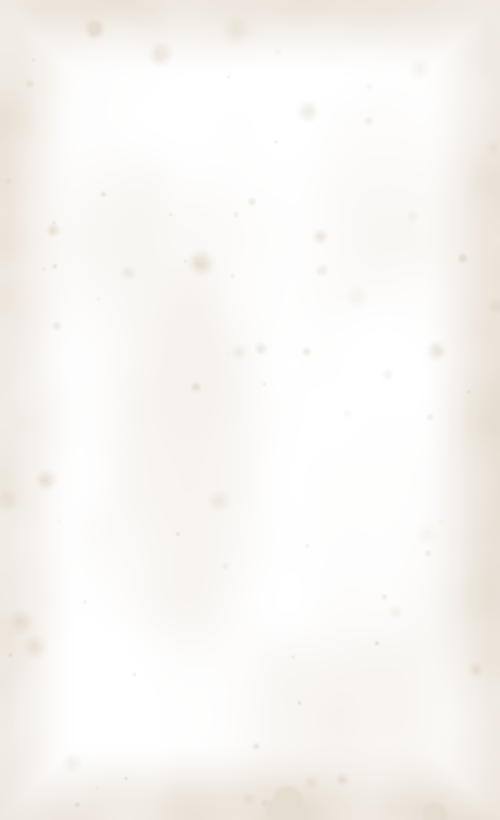
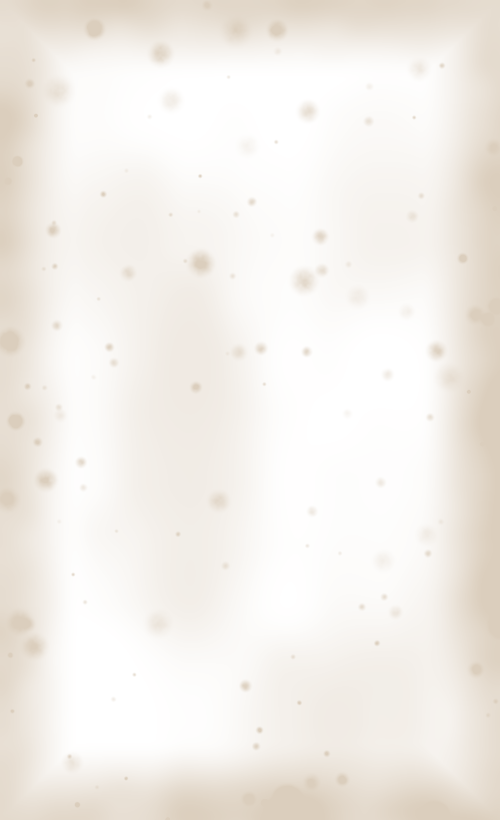
fix(hero): the ageing and the deckle were shipping invisible
Everything from the last five commits IS deployed — verified on the running
page: deckle mask present, age texture present, background rgb(249,239,214),
border 0, lift wrapper in the DOM, LIVE pulse animating. Nothing was broken.

THE PROBLEM WAS MY CALIBRATION, and it was a straight misread. The craft-pass
brief said "if a refinement is noticeable immediately, it is probably too
strong". That is the right rule for polishing shadows and tracking. I kept
applying it to changes whose entire purpose is to be SEEN — an aged sheet and a
torn edge — and tuned both below the threshold of visibility:

  deckle   3.4px base on a 462px card. Under 1% of its width, about three device
           pixels, against a soft shadow. Indistinguishable from a straight
           edge. A deckle nobody can see is not a subtle deckle, it is a
           rectangle.
  ageing   mean alpha 6%, cap .24. Not restraint — nothing.

RAISED:
  deckle   base 3.4 -> 9.5px, wander 2.6 -> 7.0, fibre 1.15 -> 2.4. The boundary
           now sits between roughly 4px and 24px in, which reads as handmade at
           100% zoom.
  ageing   foxing .17 -> .30, mottle .085 -> .145, edge toning .20 -> .34, spot
           density up 65% (78 -> 132 spots), cap .24 -> .34. Mean alpha 6% ->
           11%.

THE CAP IS STILL A LEGIBILITY LIMIT AND IT COST ANOTHER COLOUR CHANGE. At .34
the worst ground the type sits on is (214,193,159). Measured there: #6B6152 is
[…]

diff --git a/FRONTEND/src/components/CollateralHero.js b/FRONTEND/src/components/CollateralHero.js
@@ -2100,11 +2100,11 @@ export function renderCollateralHero(options = {}) {
           --doc-ink:#241F19;
           /* #7A7060 was 4.31:1 and #6B6152 was 5.31:1 — both fine on clean
              stock. But the ageing texture MULTIPLIES under the type, and on the
-             worst ground it makes (224,207,175 where foxing and edge toning
-             overlap) #6B6152 falls to 3.97:1, under AA. #5F5647 holds 4.71:1
-             there and 6.31:1 on clean paper. Age must not cost the document its
+             worst ground it makes — now (214,193,159), where foxing and edge
+             toning overlap at the .34 cap — #6B6152 falls to 3.4:1 and even
+             #5F5647 only reaches 4.14:1. #524A3A holds 5.01:1 there. Age must not cost the document its
              readability, so the muted voice deepens to pay for it. */
-          --doc-soft:#5F5647;
+          --doc-soft:#524A3A;
           --doc-ox:#6D1F2D;
           --doc-sage-bg:#EFF1E6;
           --doc-ox-bg:#F8EDEA;
